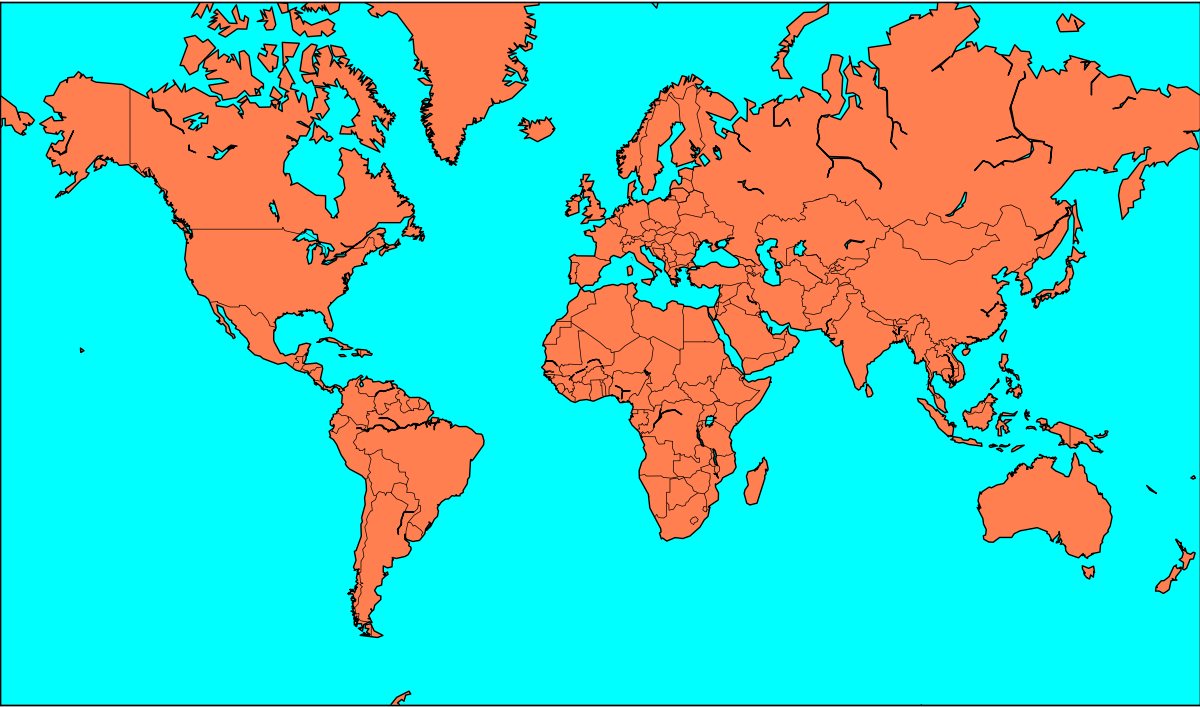
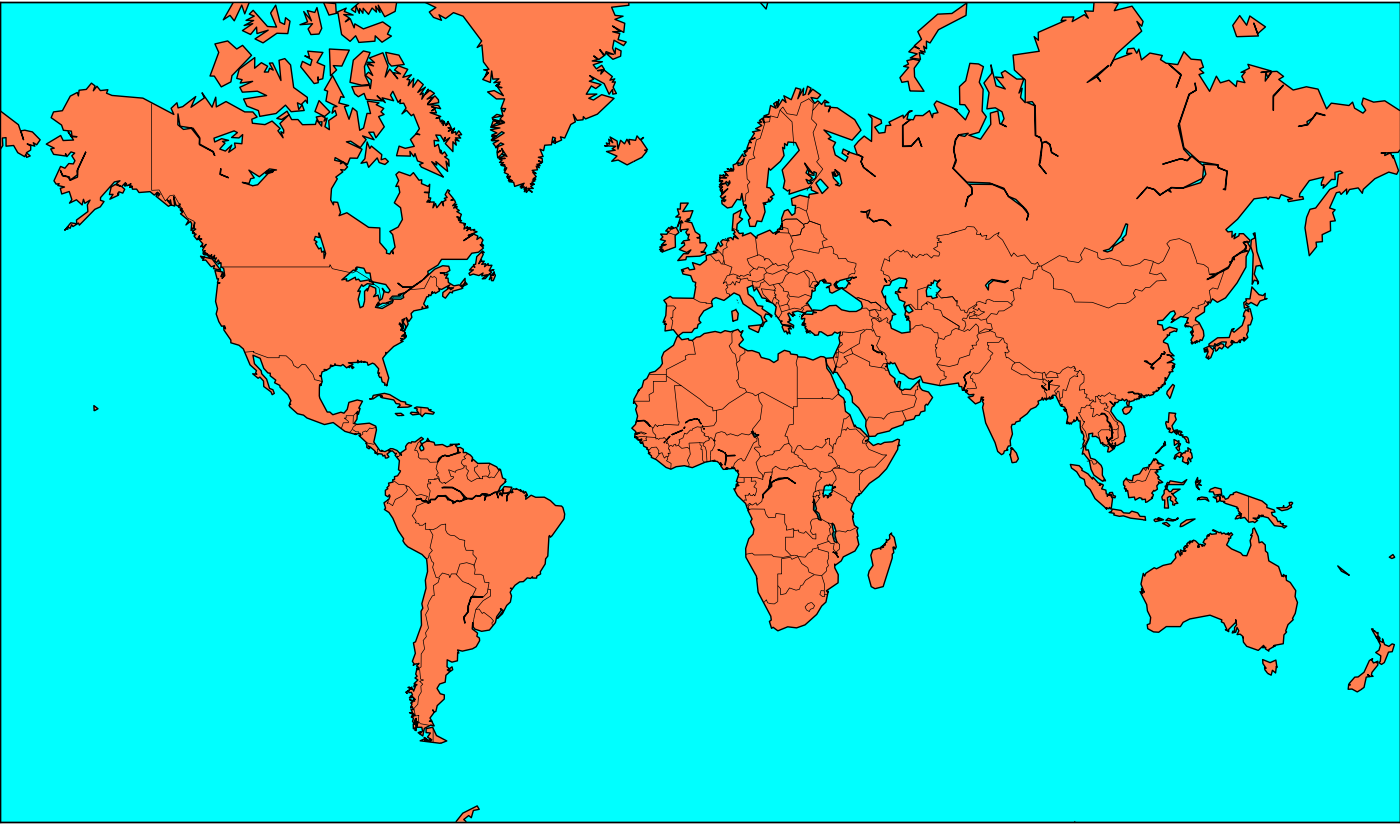
updates

diff --git a/client/client.js b/client/client.js
@@ -1,3 +1,8 @@
+/**
+ * Top level file for handling rendering and interactions on the client side.
+ * // TODO: Split this into multiple classes for handling chat, game history, map, and panel separately
+ */
+
 const canvas = window.document.getElementById('map');
 const ctx = canvas.getContext('2d');
 const socket = io();
@@ -197,10 +202,14 @@ socket.on('draw prepare', () => {
     postTimeDescrip("seconds until autostart");
 })
 
-// Draw game for client
 socket.on('draw guess city', (city, capital) => {
     postInfo("Locate this city!", city, false, capital)
     postTimeDescrip("seconds remaining")
+});
+
+socket.on('draw reveal city', (city, capital) => {
+    postInfo("Revealing...", city, false, capital)
+    postTimeDescrip("seconds until next round")
 });
 
 panel.addEventListener('click', function(evt) {
@@ -227,7 +236,7 @@ function isInside(pos, rect){
 
 /** HISTORY WINDOW HANDLING */
 socket.on("update messages", function(msg){
-    var final_message = $("<p style=\"font-size:20px\" />").html(msg);
+    var final_message = $("<font style=\"font-size:20px;line-height:20px\" />").html(msg+"<br>");
    $("#history").prepend(final_message);
    chatcount = chatcount + 1;
    if (chatcount > CONSTANTS.MAX_CHAT_HIST) {
@@ -239,7 +248,7 @@ socket.on("update messages", function(msg){
 
 socket.on('break history', (winner) => {
    var assembled = "********* WINNER: Player " + winner + " ***********"
-   var final_message = $("<p style=\"font-size:20px\" />").html(assembled);
+   var final_message = $("<font style=\"font-size:20px\" />").html(assembled+"<br>");
    $("#gamehist").append(" ");
    $("#gamehist").append(final_message);
    histcount = histcount + 1;
@@ -249,7 +258,7 @@ socket.on('break history', (winner) => {
    }});
 socket.on('add history', (payload) => {
    var assembled = payload
-   var final_message = $("<p style=\"font-size:20px\" />").html(assembled);
+   var final_message = $("<font style=\"font-size:20px\" />").html(assembled+"<br>");
    $("#gamehist").append(final_message);
    histcount = histcount + 1;
    if (histcount > CONSTANTS.MAX_GAME_HIST) {

diff --git a/index.html b/index.html
@@ -4,14 +4,11 @@
     <meta charset='utf-8'>
     <meta name='viewport' content='width=device-width initial-scale=1.0'>
     <title></title>
-    <link rel="stylesheet" href="/style.css" />
+    <link rel="stylesheet" href="style.css?v=1.0">
     <script defer src="/bundle.js"></script>
     <script src="/socket.io/socket.io.js"></script>
     <!-- Place this tag in your head or just before your close body tag. -->
-    <link rel="stylesheet" href="style.css?v=1.0">
-    <style>
-        * { padding: 0; margin: 0; }
-      </style>
+    <meta name="GeoScents" content="An online multiplayer world geography game!  Test your knowledge of city locations.">
   </head>
   <body>
 <!--  <body bgcolor="#E6E6FA">-->
@@ -26,15 +23,17 @@
               <tr>
                   <td>
                       <div>
-                          <canvas id="map" width="1200" height="707"></canvas>
+                          <canvas id="map" width="1400" height="824"></canvas>
                        </div>
                   </td>
                   <td>
                        <div>
-                          <canvas id="panel" width="800" height="707"></canvas>
+                          <canvas id="panel" width="600" height="824"></canvas>
                        </div>
                   </td>
               </tr>
+          </table>
+          <table>
               <tr>
                   <td align="left" height="400">
 <!--                      https://itnext.io/creating-a-chat-with-node-js-from-the-scratch-707896d64593-->
@@ -59,8 +58,7 @@
                   </td>
                   <td>
                       <h2>GAME HISTORY:</h2>
-                      <div id="gamehist" style="width:800px;height:400px;background:#f4fce0;border:1px dotted black;text-align:left">
-                      </div>
+                      <div id="gamehist" style="width:800px;height:400px;background:#f4fce0;border:1px dotted black;text-align:left"></div>
                   </td>
               </tr>
               <tr>

diff --git a/server/room.js b/server/room.js
@@ -1,5 +1,6 @@
 /**
-  * Class for managing game flow
+  * Class for managing the game flow within a room.
+  * // TODO: Currently entire game has one room, but the plan is to have multiple rooms to choose from with player caps
   */
 
 const CONSTANTS = require('../resources/constants.js');
@@ -112,7 +113,6 @@ class Room {
     }
 
     updateScores() {
-      const scoreEquation = (a,b,c,d,e) => {this.scoreEquation(a,b,c,d,e)};
       const target = this.target;
       this.historyRound(this.round, target['name'], target['country'], target['population'], target['capital'])
       const historyScore = (player, payload) => {this.historyScore(player, payload)}
@@ -177,15 +177,11 @@ class Room {
     drawUpperPanel() {
        const round = this.round;
        const state = this.state;
-       const players = this.players;
+       const revealAll = () => {this.revealAll()};
        const cityname = this.target['name'];
        const citycountry = this.target['country'];
        var capital = "";
        if (this.target['capital'] == "primary") capital = "(* CAPITAL CITY)";
-       const revealAll = () => {this.revealAll()};
-       const sortPlayers = () => {this.sortPlayers()};
-       const updateScores = () => {this.updateScores()};
-       const historyNewGame = (w) => {this.historyNewGame(w)};
        this.clients.forEach(function(socket, socketId) {
            socket.emit('draw round', round);
            if (state == CONSTANTS.IDLE_STATE) {
@@ -201,6 +197,7 @@ class Room {
                socket.emit('draw guess city', cityname + ', ' + citycountry, capital)
            }
            if (state == CONSTANTS.REVEAL_STATE) {
+               socket.emit('draw reveal city', cityname + ', ' + citycountry, capital)
                revealAll();
            }
        })

diff --git a/server/app.js b/server/app.js
@@ -1,6 +1,5 @@
+/** Top level file for handling connections, messages, and dispatching the game FSM */
 
-const Player = require('./player.js')
-const Geography = require('./geography.js')
 const Room = require('./room.js')
 const express = require('express');
 const path = require('path');
@@ -54,7 +53,7 @@ server.listen(PORT, () => {
 
 // Game state info
 const room = new Room(4, 0);
-const WELCOME_MESSAGE1 = "Welcome to GeoScents, an unabashed attempt at recreating the GeoSense game from the mid 2000s. " +
+const WELCOME_MESSAGE1 = "Welcome to GeoScents, an unabashed attempt at recreating the geosense.net game from the mid 2000s. " +
 	"Try to click the locations of the given city as quickly and accurately as possible!  If you are enjoying " +
 	"this game, consider donating to keep the server running!  Feel free to play with the code on github and make pull requests or post issues.";
 
@@ -93,6 +92,7 @@ io.on('connection', (socket) => {
     socket.on("send message", function(sent_msg, callback) {
     	//TODO: Why is this socket.id different from the socket.id used to create player?  Will just use ip address for now...
         sent_msg = "[ <font color='" + room.getPlayerColor(socket.handshake.address) + "'>Player " + room.getPlayerName(socket.handshake.address) + "</font> ]: " + sent_msg;
+        console.log(sent_msg)
         // if (sent_msg.length > CONSTANTS.MAX_MSG) {
         // 	sent_msg = sent_msg.substring(0, CONSTANTS.MAX_MSG)
 		// }

diff --git a/resources/constants.js b/resources/constants.js
@@ -5,10 +5,10 @@ module.exports = {
     TRUTH_COLOR: 'white',
 
     // Map and Panel
-    MAP_WIDTH: 1200,
-    MAP_HEIGHT: 707,
-    PANEL_WIDTH: 800,
-    PANEL_HEIGHT: 707,
+    MAP_WIDTH: 1400,
+    MAP_HEIGHT: 824,
+    PANEL_WIDTH: 600,
+    PANEL_HEIGHT: 824,
     ZERO_LAT: 77.0*Math.PI/180, // Latitude of top edge of map
     MAX_LAT: -65.0*Math.PI/180, // Latitude of bottom edge of map
 

diff --git a/server/player.js b/server/player.js
@@ -1,5 +1,5 @@
 /**
- * Class for storing all of a player's properties and defining methonds on them
+ * Class for storing all of a player's properties and defining methods on them
  */
 const CONSTANTS = require('../resources/constants.js');
 

diff --git a/README.md b/README.md
@@ -1,4 +1,13 @@
-Hi!
+# Introduction
+This is an unabashed attempt to recreate the game GeoSense (geosense.net), which went offline some time after ~2012.
+I have seen a few discussions on Reddit and elsewhere about people asking if it will ever go back online, but no one 
+seems to have made an effort to bring it back.
+
+I am a complete novice at Javascript and node.js but I made an attempt to throw this together anyway.
+
+Feel free to contribute!
+
+# Getting Started
 
 This is a simple starting point for a HTML5 game using Canvas, Sockets.io and Express.
 
